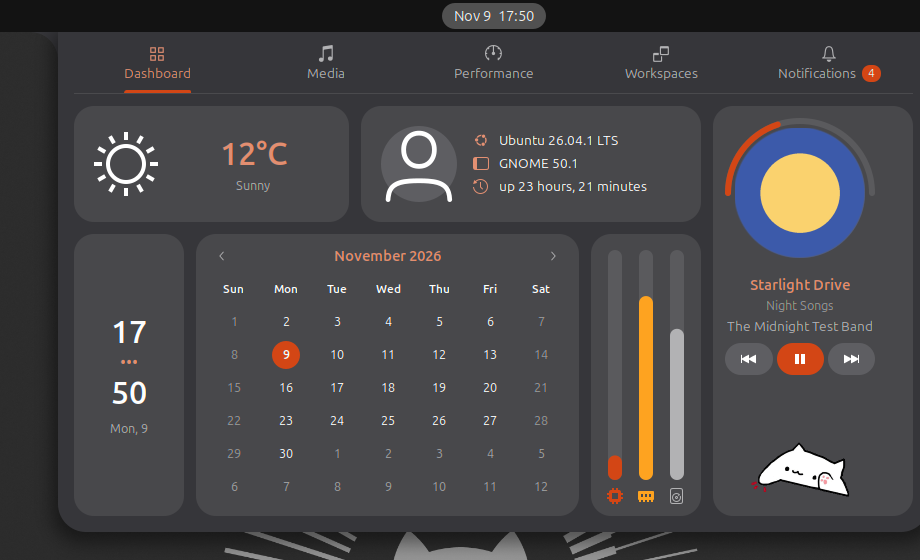
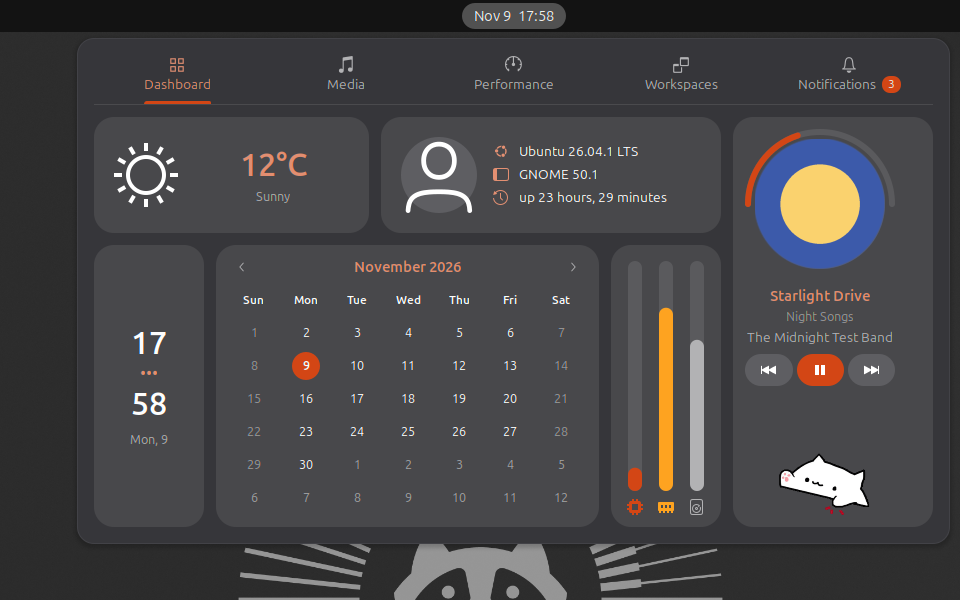
Use GNOME's own popup and Quick Settings' colours
The dashboard now opens in GNOME's usual rounded popup under the clock,
with GNOME's own animation, in the colours of Yaru-dark's Quick
Settings: the popup grey behind it, the button grey for its cards, and
Yaru's slider tracks and text greys. Quick Settings is left entirely to
GNOME again.

diff --git a/extension.js b/extension.js
@@ -1,24 +1,12 @@
 import Clutter from 'gi://Clutter';
-import Graphene from 'gi://Graphene';
 
-import {adjustAnimationTime} from 'resource:///org/gnome/shell/misc/animationUtils.js';
-import {PopupAnimation} from 'resource:///org/gnome/shell/ui/boxpointer.js';
 import * as Main from 'resource:///org/gnome/shell/ui/main.js';
-import {Extension, InjectionManager} from 'resource:///org/gnome/shell/extensions/extension.js';
+import {Extension} from 'resource:///org/gnome/shell/extensions/extension.js';
 
-import {Dashboard, PanelEar} from './dashboard.js';
-import {addPanelEarPath} from './widgets.js';
-
-// Opening glides on Caelestia's effects curve: it starts no faster than it has to and doesn't overshoot,
-// since overshooting would pull the menu away from the bar. The fade is over well before the slide, so
-// the menu is solid for most of the way. Closing moves straight away and speeds up gently as the menu
-// disappears behind the bar. Durations are in milliseconds and curves are cubic Béziers.
-const OPEN_MOTION = {duration: 400, curve: [0.34, 0.8, 0.34, 1], fadeDuration: 150};
-const CLOSE_MOTION = {duration: 200, curve: [0.3, 0.15, 0.75, 0.6], fadeDuration: 200};
+import {Dashboard} from './dashboard.js';
 
 // The clock's dropdown already handles opening, closing, input grabs and blocking banners, so the
-// dashboard is that same menu with its content swapped. It and Quick Settings both hang from the top
-// bar, sliding out from behind it.
+// dashboard is that same menu with its content swapped. It keeps GNOME's own shape and animation.
 export default class CaelestiaDashboardExtension extends Extension {
     enable() {
         const dateMenu = this._dateMenu = Main.panel.statusArea.dateMenu;
@@ -26,181 +14,31 @@ export default class CaelestiaDashboardExtension extends Extension {
 
         // Built first, so that a failure here leaves the clock's own dropdown untouched
         this._dashboard = new Dashboard(messageList._messageView._mediaSource, wallClock);
-        this._ears = [new PanelEar(Clutter.ActorAlign.END), new PanelEar(Clutter.ActorAlign.START)];
 
         // The date menu keeps using its own calendar and list, so they stay around but hidden
         this._originalContent = messageList.get_parent().get_parent();
         this._originalContent.hide();
-
-        menu.box.orientation = Clutter.Orientation.HORIZONTAL;
-        menu.box.add_child(this._ears[0]);
         menu.box.add_child(this._dashboard);
-        menu.box.add_child(this._ears[1]);
 
-        this._injections = new InjectionManager();
-        this._slides = new Map();
-        this._hangFromTopBar(menu);
+        // GNOME draws its menus through an offscreen image all the time, so any small change inside, like
+        // the bongo cat's paw, would redraw the whole dashboard. Using the image only while the menu fades
+        // in and out keeps GNOME's animation and lets a small change redraw only what changed.
+        menu._boxPointer.set_offscreen_redirect(Clutter.OffscreenRedirect.AUTOMATIC_FOR_OPACITY);
+
         this._dashboard.prepareInBackground(menu);
-
-        // Quick Settings sits in the top right corner, so its only ear is on its left. The popup's own
-        // drawing area, which spans the whole popup, draws it.
-        const quickMenu = this._quickMenu = Main.panel.statusArea.quickSettings.menu;
-        quickMenu.actor.add_style_class_name('cd-quick');
-        const quickBorder = quickMenu._boxPointer._border;
-        quickBorder.add_style_class_name('cd-quick-ear');
-        quickBorder.connectObject('repaint', area => {
-            const cr = area.get_context();
-            const node = area.get_theme_node();
-            // The popup's own drawing leaves its outline behind as the current path
-            cr.newPath();
-            cr.setSourceColor(node.get_foreground_color());
-            addPanelEarPath(cr, 0, node.get_length('-cd-ear-size'), Clutter.ActorAlign.END);
-            cr.fill();
-            cr.$dispose();
-        }, this);
-        quickBorder.queue_repaint();
-        this._hangFromTopBar(quickMenu);
-    }
-
-    // Moves a menu flush against the bottom of the top bar and makes it slide out from behind the bar.
-    // Sliding moves one cached image of the menu rather than redrawing all of it every frame. Once it
-    // has settled, the image goes away so a small change only redraws what changed.
-    _hangFromTopBar(menu) {
-        const boxPointer = menu._boxPointer;
-        const {uiGroup, panelBox} = Main.layoutManager;
-
-        boxPointer.add_style_class_name('cd-popup');
-
-        // Opening raises the menu above everything, so it has to go back behind the top bar each time
-        menu.connectObject('open-state-changed', (_, isOpen) => {
-            if (isOpen)
-                uiGroup.set_child_below_sibling(menu.actor, panelBox);
-        }, this);
-
-        const settle = () => boxPointer.set_offscreen_redirect(Clutter.OffscreenRedirect.AUTOMATIC_FOR_OPACITY);
-
-        this._injections.overrideMethod(boxPointer, 'open', open => (animate, onComplete) => {
-            // Opening again while it's still closing carries on from where it has got to
-            const wasSliding = this._slides.has(boxPointer);
-            const {translation_y: y, opacity} = boxPointer;
-
-            this._stopSlide(boxPointer);
-            boxPointer.set_offscreen_redirect(Clutter.OffscreenRedirect.ALWAYS);
-            open.call(boxPointer, PopupAnimation.NONE, onComplete);
-
-            if (!animate) {
-                boxPointer.set({translation_y: 0, opacity: 255});
-                settle();
-                return;
-            }
-
-            const [, height] = boxPointer.get_preferred_height(-1);
-            boxPointer.set(wasSliding ? {translation_y: y, opacity} : {translation_y: -height, opacity: 0});
-            this._slide(boxPointer, 0, 255, OPEN_MOTION, settle);
-        });
-        this._injections.overrideMethod(boxPointer, 'close', close => (animate, onComplete) => {
-            // Closing without saying how, as clicking a notification or a link does, slides away too.
-            // Only an explicit NONE closes on the spot, and so does a menu that isn't on screen. Quick
-            // Settings hides a wrapper around its popup, so the popup itself can be visible but unmapped.
-            if ((!animate && animate !== undefined) || !boxPointer.mapped) {
-                this._stopSlide(boxPointer);
-                close.call(boxPointer, PopupAnimation.NONE, onComplete);
-                return;
-            }
-
-            boxPointer._muteInput = true;
-            boxPointer._muteKeys = true;
-            boxPointer.set_offscreen_redirect(Clutter.OffscreenRedirect.ALWAYS);
-
-            const [, height] = boxPointer.get_preferred_height(-1);
-            this._slide(boxPointer, -height, 0, CLOSE_MOTION,
-                () => close.call(boxPointer, PopupAnimation.NONE, onComplete));
-        });
-    }
-
-    // Slides from wherever the popup is now, on a timeline of its own rather than with ease(), so that
-    // each frame can land on a whole pixel of the screen. Otherwise the slow end of the slide smears the
-    // text across fractions of a pixel, which shows most with fractional scaling.
-    _slide(boxPointer, toY, toOpacity, {duration, curve, fadeDuration}, onComplete) {
-        this._stopSlide(boxPointer);
-
-        const fromY = boxPointer.translation_y;
-        const fromOpacity = boxPointer.opacity;
-        const time = adjustAnimationTime(duration);
-        if (time === 0) {
-            boxPointer.set({translation_y: toY, opacity: toOpacity});
-            onComplete();
-            return;
-        }
-
-        const scale = global.display.get_monitor_scale(Main.layoutManager.findIndexForActor(boxPointer));
-        const fadeTime = time * fadeDuration / duration;
-        const timeline = new Clutter.Timeline({actor: boxPointer, duration: time});
-        timeline.set_cubic_bezier_progress(
-            new Graphene.Point({x: curve[0], y: curve[1]}),
-            new Graphene.Point({x: curve[2], y: curve[3]}));
-
-        timeline.connect('new-frame', () => {
-            const y = fromY + (toY - fromY) * timeline.get_progress();
-            const fade = Math.min(timeline.get_elapsed_time() / fadeTime, 1);
-            boxPointer.translation_y = Math.round(y * scale) / scale;
-            boxPointer.opacity = fromOpacity + (toOpacity - fromOpacity) * fade;
-        });
-        timeline.connect('stopped', (_, isFinished) => {
-            if (this._slides.get(boxPointer) === timeline)
-                this._slides.delete(boxPointer);
-            if (!isFinished)
-                return;
-
-            boxPointer.set({translation_y: toY, opacity: toOpacity});
-            onComplete();
-        });
-
-        this._slides.set(boxPointer, timeline);
-        timeline.start();
-    }
-
-    _stopSlide(boxPointer) {
-        this._slides.get(boxPointer)?.stop();
-    }
-
-    _releaseFromTopBar(menu) {
-        const boxPointer = menu._boxPointer;
-        const {uiGroup, panelBox} = Main.layoutManager;
-
-        menu.disconnectObject(this);
-        boxPointer.set_offscreen_redirect(Clutter.OffscreenRedirect.ALWAYS);
-        boxPointer.remove_style_class_name('cd-popup');
-        uiGroup.set_child_above_sibling(menu.actor, panelBox);
     }
 
     disable() {
         const {menu} = this._dateMenu;
-        const quickMenu = this._quickMenu;
 
-        menu.close(PopupAnimation.NONE);
-        quickMenu.close(PopupAnimation.NONE);
-        this._injections.clear();
-        this._releaseFromTopBar(menu);
-        this._releaseFromTopBar(quickMenu);
-
-        const quickBorder = quickMenu._boxPointer._border;
-        quickBorder.disconnectObject(this);
-        quickBorder.remove_style_class_name('cd-quick-ear');
-        quickBorder.queue_repaint();
-        quickMenu.actor.remove_style_class_name('cd-quick');
+        menu.close();
+        menu._boxPointer.set_offscreen_redirect(Clutter.OffscreenRedirect.ALWAYS);
 
         this._dashboard.destroy();
-        this._ears.forEach(ear => ear.destroy());
-        menu.box.orientation = Clutter.Orientation.VERTICAL;
         this._originalContent.show();
 
         this._dateMenu = null;
-        this._quickMenu = null;
         this._dashboard = null;
-        this._ears = null;
         this._originalContent = null;
-        this._injections = null;
-        this._slides = null;
     }
 }

diff --git a/stylesheet.css b/stylesheet.css
@@ -7,41 +7,10 @@
      tracks    rgba(255, 255, 255, 0.1), like Yaru's sliders
    Accents use the desktop's accent colour, with Yaru's lighter mix of it for small text. */
 
-/* Menus hung from the top bar sit right against it */
-
-.popup-menu-boxpointer.cd-popup {
-  -arrow-rise: 0;
-  -boxpointer-gap: 0;
-}
-
-.popup-menu.panel-menu.cd-popup {
-  margin-bottom: 0;
-}
-
-/* The popup around the dashboard is only there for the shell: it draws nothing of its own */
-
-.cd-popup .datemenu-popover {
-  padding: 0;
-  background-color: transparent;
-  border: 0;
-  border-radius: 0;
-  box-shadow: none;
-}
-
-.cd-panel-ear {
-  width: 28px;
-  height: 28px;
-  color: #36363a;
-}
-
-/* The bottom margin leaves room for the shadow, which the popup would otherwise clip */
+/* GNOME's own popup draws the background, border, corners and shadow around the dashboard */
 .cd-panel {
-  margin-bottom: 24px;
-  padding: 8px 16px 16px;
+  padding: 6px 10px 10px;
   color: white;
-  background-color: #36363a;
-  border-radius: 0 0 28px 28px;
-  box-shadow: 0 6px 16px rgba(0, 0, 0, 0.45);
 }
 
 /* Tabs */
@@ -824,21 +793,4 @@
 .cd-calendar-month,
 .cd-workspace {
   transition-duration: 100ms;
-}
-
-/* Quick Settings keeps Yaru's own colours and only hangs from the top bar. It sits in the top right
-   corner, so its one ear is on the left, drawn by the popup itself into the room the left margin leaves. */
-
-.cd-quick-ear {
-  -cd-ear-size: 28px;
-  color: #36363a;
-}
-
-/* Yaru's background, without the border that would show against the bar. The bottom margin leaves room
-   for the shadow. */
-.cd-quick .quick-settings {
-  margin: 0 0 24px 28px;
-  border: 0;
-  border-radius: 0 0 0 28px;
-  box-shadow: 0 6px 16px rgba(0, 0, 0, 0.45);
 }

diff --git a/dashboard.js b/dashboard.js
@@ -13,7 +13,7 @@ import {Avatar} from 'resource:///org/gnome/shell/ui/userWidget.js';
 import {NotificationDock} from './dock.js';
 import {MediaController, MediaView} from './media.js';
 import {formatUptime, SystemStats, WeatherClient} from './system.js';
-import {addPanelEarPath, ArcProgress, LevelBar, setStyleClass} from './widgets.js';
+import {ArcProgress, LevelBar, setStyleClass} from './widgets.js';
 
 const extensionDirectory = GLib.path_get_dirname(GLib.filename_from_uri(import.meta.url)[0]);
 
@@ -33,26 +33,6 @@ function extensionIcon(name) {
 function createCard(styleClass, params) {
     return new St.BoxLayout({style_class: `cd-card ${styleClass}`, ...params});
 }
-
-// The concave corner that blends the dashboard into the top bar. Its colour comes from CSS.
-export const PanelEar = GObject.registerClass(
-class PanelEar extends St.DrawingArea {
-    constructor(panelSide) {
-        super({style_class: 'cd-panel-ear', y_align: Clutter.ActorAlign.START});
-        this._panelSide = panelSide;
-    }
-
-    vfunc_repaint() {
-        const cr = this.get_context();
-        const [, height] = this.get_surface_size();
-
-        cr.setSourceColor(this.get_theme_node().get_foreground_color());
-        addPanelEarPath(cr, 0, height, this._panelSide);
-        cr.fill();
-
-        cr.$dispose();
-    }
-});
 
 const WeatherCard = GObject.registerClass(
 class WeatherCard extends St.BoxLayout {

diff --git a/widgets.js b/widgets.js
@@ -15,22 +15,6 @@ export function setStyleClass(actor, name, enabled) {
         actor.remove_style_class_name(name);
 }
 
-// Outlines the concave corner that blends a panel into the top bar, in a size by size square at x. The
-// panel is on its right for END and on its left for START.
-export function addPanelEarPath(cr, x, size, panelSide) {
-    if (panelSide === Clutter.ActorAlign.END) {
-        cr.moveTo(x + size, size);
-        cr.lineTo(x + size, 0);
-        cr.lineTo(x, 0);
-        cr.arc(x, size, size, -Math.PI / 2, 0);
-    } else {
-        cr.moveTo(x, size);
-        cr.lineTo(x, 0);
-        cr.lineTo(x + size, 0);
-        cr.arcNegative(x + size, size, size, -Math.PI / 2, Math.PI);
-    }
-}
-
 // Crops an image to a circle
 export const CircleClipEffect = GObject.registerClass(
 class CircleClipEffect extends Shell.GLSLEffect {

diff --git a/README.md b/README.md
@@ -4,20 +4,15 @@ A GNOME Shell extension that turns the clock's dropdown into the dashboard from
 [Caelestia Shell](https://github.com/caelestia-dots/shell), in the colours of Yaru-dark's Quick Settings and your desktop's
 accent colour.
 
-![The dashboard hanging from the top bar](screenshot.png)
+![The dashboard under the clock](screenshot.png)
 
-Click the clock and the panel slides out from behind the top bar. It has five tabs:
+Click the clock and it opens in GNOME's usual popup, with GNOME's own animation. It has five tabs:
 
 - **Dashboard:** weather, your profile picture and system info, clock, calendar, CPU, memory and storage bars, and a media player with a progress arc and bongo cat
 - **Media:** a larger player with the track time
 - **Performance:** CPU with temperature, memory, storage, network and battery
 - **Workspaces:** a card per workspace with its open apps; click one to go there
 - **Notifications:** per-app cards with a count on the tab. Swipe sideways or middle-click a notification to dismiss it, and right-click to expand its card
-
-The Quick Settings menu in the top right keeps Yaru's own look. Like the dashboard, it hangs from the bar, in the corner
-of the screen, and slides out the same way.
-
-![Quick Settings hanging from the top right corner](screenshot-quick-settings.png)
 
 ## Requirements
 
